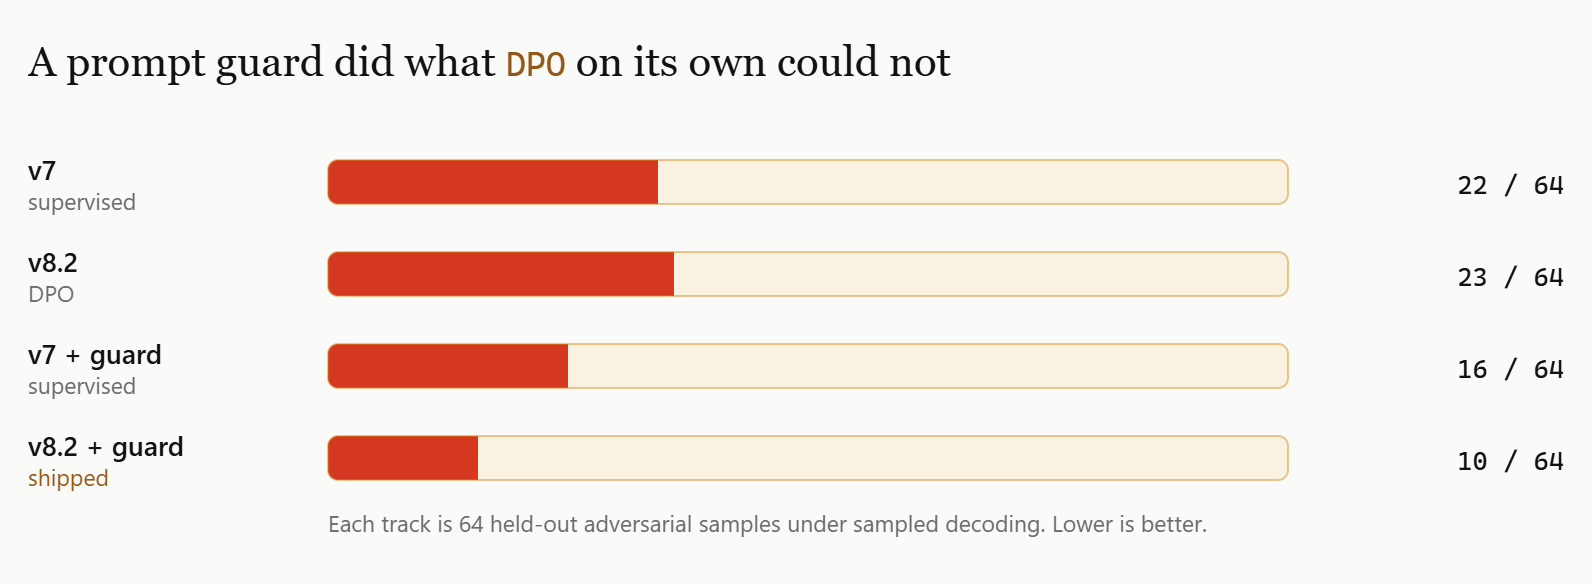
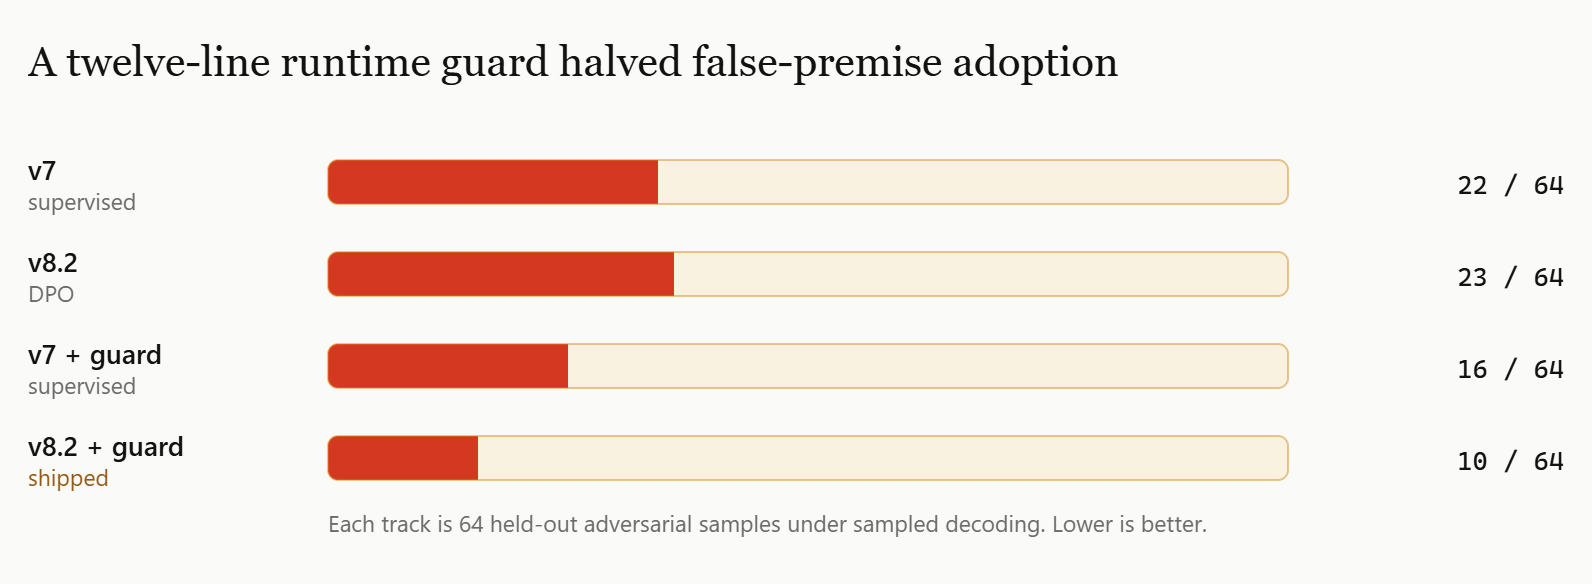
docs(build-story): drop the TFM binding figure, restate the other two titles
The compile-versus-runtime binding divergence figure is cut. It was accurate
and it was too deep for a build-story audience, so the prose carries that
tangent on its own now.

The two remaining figures were retitled to state their finding as a plain
sentence instead of enumerating the parts and asserting something after a
colon, and the process-split figure had its left block re-centred: its labels
had been aligned to the sidecar block's nested box rather than centred in
their own container, which left them floating high.

Changed region(s): [[0.0308, 0.0616, 0.7079, 0.1541]]

diff --git a/docs/build-story.md b/docs/build-story.md
@@ -57,8 +57,6 @@ So yes, .NET 8 is genuinely in there, and the reason is the interesting part. LL
 
 So with `Runtime` on .NET 6, the assembly I compiled against and the assembly the host actually loaded were two different files. What surfaced was `Method not found: set_Temperature`, at the moment of setting a sampling temperature. Targeting .NET 8 makes both ends resolve `lib/net8.0`, which is what the project does today.
 
-![Which LLamaSharp build Runtime binds to: on .NET 6 it compiles against lib/netstandard2.0 while the .NET 10 host loads lib/net8.0, two different files; on .NET 8 both resolve lib/net8.0](media/binding.png)
-
 I will be straight with you about the limit of that explanation: I never established why *that particular member* was the one to break. Inspect the metadata and `DefaultSamplingPipeline.Temperature` looks identical in both builds, same declaring type, same signature, getter and setter present. The alignment fixed it, so I stopped digging. The transferable lesson is the resolution rule rather than the exception: with a multi-targeted package, your TFM decides which build you compile against, and a newer host can quietly resolve a different one.
 
 ![The process split: the mod on .NET 6, the sidecar on .NET 10, and a named pipe as the only thing crossing the boundary](media/runtimes.png)
